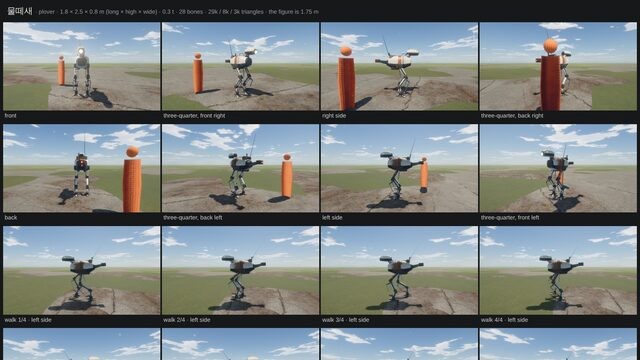
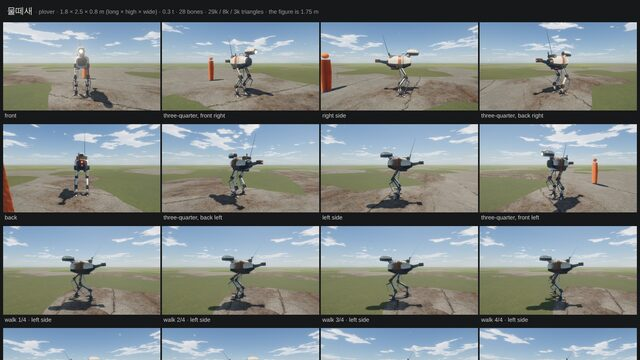
machine-wilds: cast sheets with the figure behind the body; the HUD fits a phone (zoom buttons only on wide screens); demos rebuilt
Claude-Session: https://claude.ai/code/session_01LWivNf8Y6UtuVJbT9XD7sv

diff --git a/docs/machine-wilds/demo/iron-valley/index.html b/docs/machine-wilds/demo/iron-valley/index.html
@@ -8108,7 +8108,7 @@ void main(){
 .pane button{appearance:none;border:0;background:transparent;color:inherit;font:inherit;display:flex;align-items:center;gap:6px;height:36px;min-width:36px;padding:0 10px;border-radius:7px;cursor:pointer;letter-spacing:.04em;white-space:nowrap}
 .pane button:hover{background:rgba(255,255,255,.09)} .pane button:focus-visible{outline:2px solid var(--gold);outline-offset:1px}
 .pane button[aria-pressed="true"]{background:rgba(220,200,143,.2);color:#fff3cf;box-shadow:inset 0 0 0 1px var(--line)}
-.pane .sep{width:1px;margin:6px 3px;background:var(--line)} .pane button.ic{padding:0 9px}
+.pane .sep{width:1px;margin:6px 3px;background:var(--line)} .pane button.ic{padding:0 9px} .pane .wide{display:flex}
 #lr-num{position:absolute;right:max(14px,env(safe-area-inset-right));top:64px;font:11px/1.5 ui-monospace,Menlo,Consolas,monospace;text-align:right;opacity:.82;text-shadow:0 1px 2px #000;white-space:pre;pointer-events:none}
 #lr-hint{position:absolute;left:50%;bottom:calc(max(14px,env(safe-area-inset-bottom)) + 62px);transform:translateX(-50%);padding:7px 14px;border-radius:99px;background:rgba(10,10,12,.5);font-size:12px;letter-spacing:.04em;opacity:0;transition:opacity .8s;pointer-events:none;text-align:center;max-width:calc(100vw - 24px)}
 #lr-hint.on{opacity:.92}
@@ -8138,7 +8138,7 @@ void main(){
         const say = () => { E.credit.textContent = t.scans + (got() < due() ? ` · ${got()} / ${due()}` : ''); }; say(); LR.on('scan', say); } }
     const btn = (id, icon, label, title) => `<button type="button" data-k="${id}" title="${title || label}" aria-label="${title || label}" aria-pressed="false" class="${label ? '' : 'ic'}">${svg(icon)}${label ? `<span class="lb">${label}</span>` : ''}</button>`;
     E.bar = root.appendChild(el('div', { id: 'lr-bar', class: 'pane', role: 'toolbar' }, btn('dawn', 'dawn', t.dawn) + btn('day', 'day', t.day) + btn('dusk', 'dusk', t.dusk) + btn('night', 'night', t.night) + '<span class="sep"></span>' + btn('clear', 'clear', t.clear) + btn('mist', 'mist', t.mist) + btn('rain', 'rain', t.rain) + btn('snow', 'snow', t.snow) + '<span class="sep"></span>' + btn('auto', 'auto', t.auto) + btn('walk', 'walk', t.walk)));
-    E.top = root.appendChild(el('div', { id: 'lr-top', class: 'pane', role: 'toolbar' }, (LR.mech && LR.mech.units && LR.mech.units.some((u) => u.avatar) ? btn('cam', 'cam', '', t.cam) + btn('zin', 'zin', '', t.zin) + btn('zout', 'zout', '', t.zout) + btn('torch', 'torch', '', t.torch) + '<span class="sep"></span>' : '') + btn('gear', 'gear', '', t.quality) + btn('sound', 'mute', '', t.sound) + `<span class="wide" style="display:flex">${btn('keys', 'keys', '', t.keys)}${btn('full', 'full', '', t.full)}</span>`));
+    E.top = root.appendChild(el('div', { id: 'lr-top', class: 'pane', role: 'toolbar' }, (LR.mech && LR.mech.units && LR.mech.units.some((u) => u.avatar) ? btn('cam', 'cam', '', t.cam) + `<span class="wide">${btn('zin', 'zin', '', t.zin)}${btn('zout', 'zout', '', t.zout)}</span>` + btn('torch', 'torch', '', t.torch) + '<span class="sep"></span>' : '')      /* (on a narrow screen a pinch zooms: the two buttons go) */ + btn('gear', 'gear', '', t.quality) + btn('sound', 'mute', '', t.sound) + `<span class="wide">${btn('keys', 'keys', '', t.keys)}${btn('full', 'full', '', t.full)}</span>`));
     E.num = root.appendChild(el('div', { id: 'lr-num' })); E.num.style.display = LR.q('stats') || LR.q('prof') ? '' : 'none';
     E.hint = root.appendChild(el('div', { id: 'lr-hint' }, LR.gpu.mobile ? t.hintTouch : t.hint));
     E.card = root.appendChild(el('div', { class: 'card' }, '<b></b><i></i><span></span>'));

diff --git a/docs/machine-wilds/demo/starter/index.html b/docs/machine-wilds/demo/starter/index.html
@@ -8108,7 +8108,7 @@ void main(){
 .pane button{appearance:none;border:0;background:transparent;color:inherit;font:inherit;display:flex;align-items:center;gap:6px;height:36px;min-width:36px;padding:0 10px;border-radius:7px;cursor:pointer;letter-spacing:.04em;white-space:nowrap}
 .pane button:hover{background:rgba(255,255,255,.09)} .pane button:focus-visible{outline:2px solid var(--gold);outline-offset:1px}
 .pane button[aria-pressed="true"]{background:rgba(220,200,143,.2);color:#fff3cf;box-shadow:inset 0 0 0 1px var(--line)}
-.pane .sep{width:1px;margin:6px 3px;background:var(--line)} .pane button.ic{padding:0 9px}
+.pane .sep{width:1px;margin:6px 3px;background:var(--line)} .pane button.ic{padding:0 9px} .pane .wide{display:flex}
 #lr-num{position:absolute;right:max(14px,env(safe-area-inset-right));top:64px;font:11px/1.5 ui-monospace,Menlo,Consolas,monospace;text-align:right;opacity:.82;text-shadow:0 1px 2px #000;white-space:pre;pointer-events:none}
 #lr-hint{position:absolute;left:50%;bottom:calc(max(14px,env(safe-area-inset-bottom)) + 62px);transform:translateX(-50%);padding:7px 14px;border-radius:99px;background:rgba(10,10,12,.5);font-size:12px;letter-spacing:.04em;opacity:0;transition:opacity .8s;pointer-events:none;text-align:center;max-width:calc(100vw - 24px)}
 #lr-hint.on{opacity:.92}
@@ -8138,7 +8138,7 @@ void main(){
         const say = () => { E.credit.textContent = t.scans + (got() < due() ? ` · ${got()} / ${due()}` : ''); }; say(); LR.on('scan', say); } }
     const btn = (id, icon, label, title) => `<button type="button" data-k="${id}" title="${title || label}" aria-label="${title || label}" aria-pressed="false" class="${label ? '' : 'ic'}">${svg(icon)}${label ? `<span class="lb">${label}</span>` : ''}</button>`;
     E.bar = root.appendChild(el('div', { id: 'lr-bar', class: 'pane', role: 'toolbar' }, btn('dawn', 'dawn', t.dawn) + btn('day', 'day', t.day) + btn('dusk', 'dusk', t.dusk) + btn('night', 'night', t.night) + '<span class="sep"></span>' + btn('clear', 'clear', t.clear) + btn('mist', 'mist', t.mist) + btn('rain', 'rain', t.rain) + btn('snow', 'snow', t.snow) + '<span class="sep"></span>' + btn('auto', 'auto', t.auto) + btn('walk', 'walk', t.walk)));
-    E.top = root.appendChild(el('div', { id: 'lr-top', class: 'pane', role: 'toolbar' }, (LR.mech && LR.mech.units && LR.mech.units.some((u) => u.avatar) ? btn('cam', 'cam', '', t.cam) + btn('zin', 'zin', '', t.zin) + btn('zout', 'zout', '', t.zout) + btn('torch', 'torch', '', t.torch) + '<span class="sep"></span>' : '') + btn('gear', 'gear', '', t.quality) + btn('sound', 'mute', '', t.sound) + `<span class="wide" style="display:flex">${btn('keys', 'keys', '', t.keys)}${btn('full', 'full', '', t.full)}</span>`));
+    E.top = root.appendChild(el('div', { id: 'lr-top', class: 'pane', role: 'toolbar' }, (LR.mech && LR.mech.units && LR.mech.units.some((u) => u.avatar) ? btn('cam', 'cam', '', t.cam) + `<span class="wide">${btn('zin', 'zin', '', t.zin)}${btn('zout', 'zout', '', t.zout)}</span>` + btn('torch', 'torch', '', t.torch) + '<span class="sep"></span>' : '')      /* (on a narrow screen a pinch zooms: the two buttons go) */ + btn('gear', 'gear', '', t.quality) + btn('sound', 'mute', '', t.sound) + `<span class="wide">${btn('keys', 'keys', '', t.keys)}${btn('full', 'full', '', t.full)}</span>`));
     E.num = root.appendChild(el('div', { id: 'lr-num' })); E.num.style.display = LR.q('stats') || LR.q('prof') ? '' : 'none';
     E.hint = root.appendChild(el('div', { id: 'lr-hint' }, LR.gpu.mobile ? t.hintTouch : t.hint));
     E.card = root.appendChild(el('div', { class: 'card' }, '<b></b><i></i><span></span>'));

diff --git a/machine-wilds/lib/88_hud.js b/machine-wilds/lib/88_hud.js
@@ -36,7 +36,7 @@
 .pane button{appearance:none;border:0;background:transparent;color:inherit;font:inherit;display:flex;align-items:center;gap:6px;height:36px;min-width:36px;padding:0 10px;border-radius:7px;cursor:pointer;letter-spacing:.04em;white-space:nowrap}
 .pane button:hover{background:rgba(255,255,255,.09)} .pane button:focus-visible{outline:2px solid var(--gold);outline-offset:1px}
 .pane button[aria-pressed="true"]{background:rgba(220,200,143,.2);color:#fff3cf;box-shadow:inset 0 0 0 1px var(--line)}
-.pane .sep{width:1px;margin:6px 3px;background:var(--line)} .pane button.ic{padding:0 9px}
+.pane .sep{width:1px;margin:6px 3px;background:var(--line)} .pane button.ic{padding:0 9px} .pane .wide{display:flex}
 #lr-num{position:absolute;right:max(14px,env(safe-area-inset-right));top:64px;font:11px/1.5 ui-monospace,Menlo,Consolas,monospace;text-align:right;opacity:.82;text-shadow:0 1px 2px #000;white-space:pre;pointer-events:none}
 #lr-hint{position:absolute;left:50%;bottom:calc(max(14px,env(safe-area-inset-bottom)) + 62px);transform:translateX(-50%);padding:7px 14px;border-radius:99px;background:rgba(10,10,12,.5);font-size:12px;letter-spacing:.04em;opacity:0;transition:opacity .8s;pointer-events:none;text-align:center;max-width:calc(100vw - 24px)}
 #lr-hint.on{opacity:.92}
@@ -66,7 +66,7 @@
         const say = () => { E.credit.textContent = t.scans + (got() < due() ? ` · ${got()} / ${due()}` : ''); }; say(); LR.on('scan', say); } }
     const btn = (id, icon, label, title) => `<button type="button" data-k="${id}" title="${title || label}" aria-label="${title || label}" aria-pressed="false" class="${label ? '' : 'ic'}">${svg(icon)}${label ? `<span class="lb">${label}</span>` : ''}</button>`;
     E.bar = root.appendChild(el('div', { id: 'lr-bar', class: 'pane', role: 'toolbar' }, btn('dawn', 'dawn', t.dawn) + btn('day', 'day', t.day) + btn('dusk', 'dusk', t.dusk) + btn('night', 'night', t.night) + '<span class="sep"></span>' + btn('clear', 'clear', t.clear) + btn('mist', 'mist', t.mist) + btn('rain', 'rain', t.rain) + btn('snow', 'snow', t.snow) + '<span class="sep"></span>' + btn('auto', 'auto', t.auto) + btn('walk', 'walk', t.walk)));
-    E.top = root.appendChild(el('div', { id: 'lr-top', class: 'pane', role: 'toolbar' }, (LR.mech && LR.mech.units && LR.mech.units.some((u) => u.avatar) ? btn('cam', 'cam', '', t.cam) + btn('zin', 'zin', '', t.zin) + btn('zout', 'zout', '', t.zout) + btn('torch', 'torch', '', t.torch) + '<span class="sep"></span>' : '') + btn('gear', 'gear', '', t.quality) + btn('sound', 'mute', '', t.sound) + `<span class="wide" style="display:flex">${btn('keys', 'keys', '', t.keys)}${btn('full', 'full', '', t.full)}</span>`));
+    E.top = root.appendChild(el('div', { id: 'lr-top', class: 'pane', role: 'toolbar' }, (LR.mech && LR.mech.units && LR.mech.units.some((u) => u.avatar) ? btn('cam', 'cam', '', t.cam) + `<span class="wide">${btn('zin', 'zin', '', t.zin)}${btn('zout', 'zout', '', t.zout)}</span>` + btn('torch', 'torch', '', t.torch) + '<span class="sep"></span>' : '')      /* (on a narrow screen a pinch zooms: the two buttons go) */ + btn('gear', 'gear', '', t.quality) + btn('sound', 'mute', '', t.sound) + `<span class="wide">${btn('keys', 'keys', '', t.keys)}${btn('full', 'full', '', t.full)}</span>`));
     E.num = root.appendChild(el('div', { id: 'lr-num' })); E.num.style.display = LR.q('stats') || LR.q('prof') ? '' : 'none';
     E.hint = root.appendChild(el('div', { id: 'lr-hint' }, LR.gpu.mobile ? t.hintTouch : t.hint));
     E.card = root.appendChild(el('div', { class: 'card' }, '<b></b><i></i><span></span>'));
